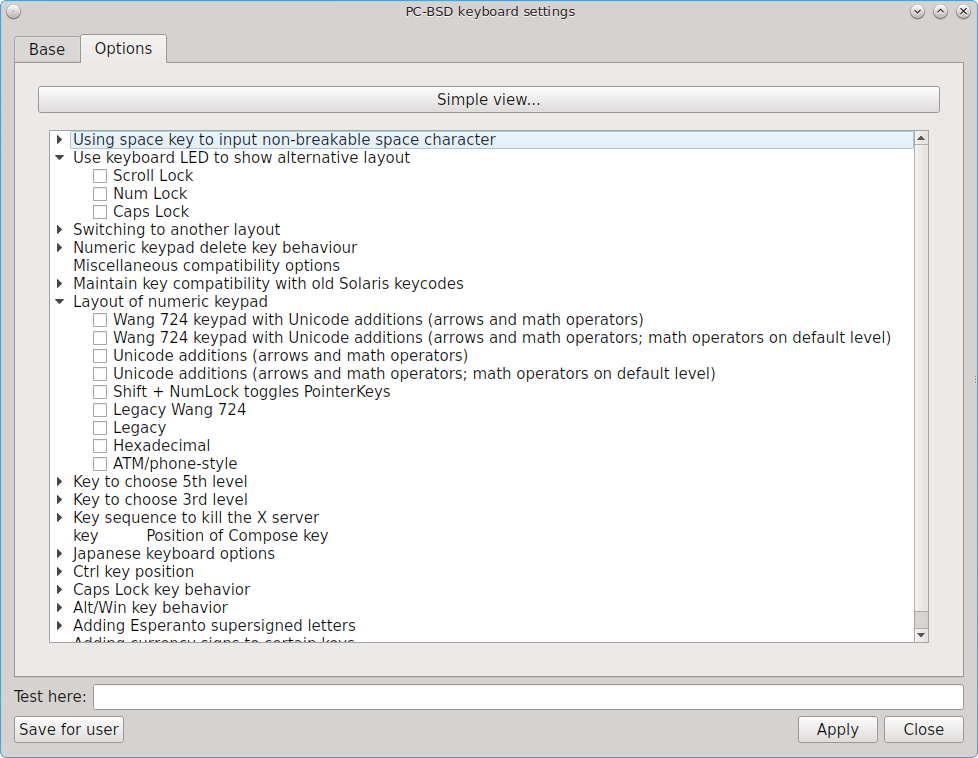
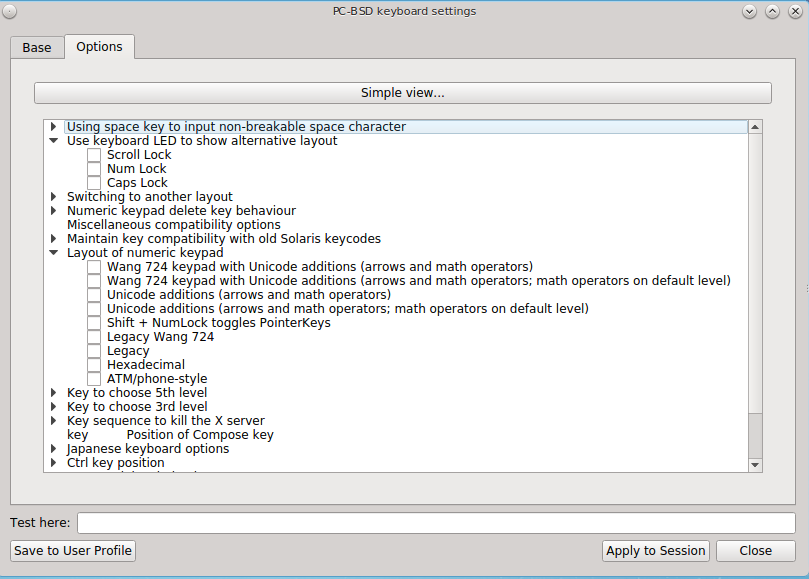
Update some screenshots.

Changed region(s): [[0.0, 0.0, 1.0, 1.0], [0.4017, 0.0, 0.5871, 0.0311], [0.0, 0.0, 0.0309, 0.0311]]

diff --git a/docs/controlpanel.rst b/docs/controlpanel.rst
@@ -619,12 +619,6 @@ shows the configuration utility with the Active Directory tab open.
 
 .. image:: images/ldap1.png
 
-.. index:: active directory
-.. _Connecting to Active Directory:
-
-Connecting to Active Directory 
--------------------------------
-
 If you need to connect to a network running Active Directory, check the box "Enable Active Directory". This will change the greyed-out status of the rest of
 the screen, allowing you to configure the following: 
 
@@ -646,14 +640,7 @@ The values that you input using this GUI are saved to :file:`/usr/local/etc/pc-a
 
 .. note:: once you enable AD, you can no longer configure auto login in :ref:`Login Manager` as users will now authenticate with the Active Directory server.
 
-.. index:: LDAP
-.. _Connecting to an OpenLDAP Server:
-
-Connecting to an OpenLDAP Server 
----------------------------------
-
 Figure 8.3b shows the configuration utility with the LDAP tab open.
-
 
 **Figure 8.3b: Managing LDAP Client Settings** 
 
@@ -722,12 +709,6 @@ option of booting into a backup boot environment. For example:
    :file:`/var/` directories remain untouched. This way, if you rollback to a previous boot environment, you will not lose data in your home directories, any
    installed applications, or downloaded src or ports. During installation, you can add additional mount points, just don't delete the default ones.
 
-.. index:: boot manager
-.. _Managing Boot Environments Using Boot Manager:
-
-Managing Boot Environments Using Boot Manager
----------------------------------------------
-
 To create and manage boot environments using a graphical interface, go to :menuselection:`Control Panel --> Boot Manager` or type
 :command:`pc-su pc-bootconfig`. You will be prompted to enter your password.
 
@@ -767,7 +748,7 @@ delete any boot environments you create manually.
 
 Whenever there are multiple boot environments, a boot menu similar to the one seen in Figure 8.4b will appear for two seconds during system boot. The menu
 contains the names of the boot environments and the date each was created. Press the :kbd:`spacebar` to pause the screen so that you can review the
-selections, use the arrow keys to highlight the boot environment you would like to boot into, and press :kbd`Enter` to continue booting into the selected boot
+selections, use the arrow keys to highlight the boot environment you would like to boot into, and press :kbd:`Enter` to continue booting into the selected boot
 environment. If you don't pause this screen, the system will automatically boot into either the last "Running" boot environment or, if you have activated
 another boot environment, the environment that was set as the "Default". 
 
@@ -920,14 +901,16 @@ The "Misc" tab is shown in Figure 8.6c.
 
 .. image:: images/login4.png
 
-By default, when a user types their password at the login prompt shown in Figure 4.8a, "*" characters are displayed as the password is typed in order to
-prevent another user from seeing the password as it is typed. When "Enable "show password" button" box is checked, and the user clicks the lock icon next to
+This screen provides the following options:
+
+**Enable "show password" button:** by default, when a user types their password at the login prompt shown in Figure 4.8a, "*" characters are displayed as the password is
+typed in order to prevent another user from seeing the password as it is typed. When the  "Enable "show password" button" box is checked, and the user clicks the lock icon next to
 the typed password in the login screen, the asterisks will change to reveal the password.
 
-By default, the list of available users is displayed in the login screen. To hide this list and force the user to input their username, uncheck the "Display
-available users" box.
+**Display available users:** by default, the list of available users is displayed in the login screen. To hide this list and force the user to input their username, uncheck
+this box. For security reasons, the Login Manager will refuse logins from the *root* and *toor* accounts.
 
-.. note:: for security reasons, the Login Manager will refuse logins from the *root* and *toor* accounts.
+**Allow Stealth Sessions:** 
 
 .. index:: configuration
 .. _Service Manager:
@@ -971,12 +954,6 @@ System Manager
 This section describes the various tasks that can be performed using the graphical System Manager utility. System Manager can be accessed from
 :menuselection:`Control Panel --> System Manager` or by typing pc-su :command:`pc-sysmanager`. You will be prompted to input your password.
 
-.. index:: system manager
-.. _General Tab:
-
-General Tab 
-------------
-
 The "General" tab, shown in Figure 8.8a, displays the following system information: 
 
 * the version numbers for the PC-BSD® base and its command-line and graphical utilities
@@ -1014,12 +991,6 @@ The "Generate" button can be used to create a report that includes the following
 When you click the "Generate" button, you will be prompted to input the name and location of the text file that will be created. Since it is a text file, you
 can view its contents in any text editor. When troubleshooting your system, this file is handy to include when you :ref:`Report a bug`.
 
-.. index:: system manager
-.. _Tasks Tab:
-
-Tasks Tab 
-----------
-
 During the installation of PC-BSD® you had an opportunity to install FreeBSD source and ports. If you did not and wish to do so after installation, use the
 "Tasks" tab of System Manager, shown in Figure 8.8b.
 
@@ -1034,12 +1005,6 @@ download is complete, a "Finished!" message will appear and you can click the "C
 
 If you click the "Fetch PC-BSD Ports Tree" button, a message will indicate that ports are being fetched and will indicate when this is complete by adding a
 "Finished!" message to the lower left corner of the message. Ports will be installed to :file:`/usr/ports/`.
-
-.. index:: system manager
-.. _Misc Tab:
-
-Misc Tab 
----------
 
 The "Misc" tab of System Manager is seen in Figure 8.8c.
 
@@ -1121,6 +1086,9 @@ account, it will be highlighted in red and the utility will prompt you to use an
 **Shell:** this drop-down menu contains the shells that are available to users when they are at a command prompt. You can either keep the default or select a
 shell which the user prefers.
 
+**UID:** by default, the user will be assigned the next available User ID (UID). If you need to force a specific UID, you can set it here. Note that you
+cannot set a UID lower than 1001 or specify a UID that is already in use by another user account.
+
 **Primary Group:** if you leave the default button of "New Group" selected, a group will be created with the same name as the user. This is usually what you
 want unless you are creating a system account and the installation instructions specify a different group name. Note that the drop-down menu for specifying a
 group name will only show existing groups, but you can quickly create a group using the "Groups" tab.
@@ -1168,12 +1136,6 @@ Disk Manager
 The PC-BSD® Disk Manager can be used to manage ZFS pools and datasets as well as the disks attached to the system. To access this utility, use
 :menuselection:`Control Panel --> Disk Manager` or type :command:`pc-su pc-zmanager` from within an xterm. You will need to input your password in order to
 access this utility.
-
-.. index:: disk manager
-.. _Managing ZFS Datasets:
-
-Managing ZFS Datasets
----------------------
 
 As seen in the example in Figure 8.10a, the utility will open in the "ZFS Filesystems" tab and will display the system's ZFS datasets, the amount of space
 available to each dataset, and the amount of space each dataset is using.
@@ -1235,12 +1197,6 @@ any options unless you are familiar with the ramifications of doing so.
   uncompressed as it is read. The algorithm determines the amount and speed of compression, where typically increased compression results in decreased speed.
   The *lz4* algorithm is recommended as it provides very good compression at near real-time speed.
 
-.. index:: disk manager
-.. _Managing the ZFS Pool:
-
-Managing the ZFS Pool
----------------------
-
 To view the status of the ZFS pools and the disk(s) in the pool, click the "ZFS Pools" tab. In the example, shown in Figure 8.10d, the ZFS pool named *tank*
 was created from one disk. The state of "Online" indicates that the pool is healthy.
 
@@ -1277,12 +1233,6 @@ If you right-click a disk entry, such as *ad0s1a* in this example, the following
 * **Attach (mirror) device:** if you wish to mirror additional disk(s), this option will open a screen which allows you to specify the disk(s) to add.
 
 * **Take offline:** if you need to replace a bad disk, select this option before physically removing the disk.
-
-.. index:: disk manager
-.. _Disk Management:
-
-Disk Management
----------------
 
 An example of the "Disks" tab is seen in Figure 8.10e.
 
@@ -1515,11 +1465,9 @@ icon in Control Panel or type :command:`pc-syskeyboard` at the command line. A s
 
 .. image:: images/keyboard1.png
 
-.. index:: keyboard
-.. _Changing the Layout:
-
-Changing the Layout
--------------------
+.. note:: any changes made using this utility can me saved as either for just this login session or permanently. To make the changes permanent, click the "Save to
+   User Profile" button once you are finished making your changes. Otherwise, click the "Apply to Session" button. If you just click the "Close" button, your changes
+   will not be saved.
 
 To add another keyboard layout, click the "+" button, which will open the screen shown in Figure 8.13b. Highlight the desired layout. This will activate the
 "Layout variant" drop-down menu where you can select to either use the "Typical" variant or a specific variant. Press "OK" to add the configured layout.
@@ -1536,12 +1484,6 @@ that this icon is greyed out when there is only one entry as at least one keyboa
 
 After creating or editing a layout, you can test it by typing some text into the "Test here" field.
 
-.. index:: keyboard
-.. _Configuring Layout Switch Keys:
-
-Configuring Layout Switch Keys
-------------------------------
-
 To configure keyboard shortcuts, click the "Options" tab. As seen in Figure 8.13c, the default view is used to set the keyboard layout switch keys.
 
 **Figure 8.13c: Configuring Layout Switch Keys**
@@ -1556,6 +1498,8 @@ categories have been expanded to show their options. To enable an option, check 
 **Figure 8.13d: Configuring Keyboard Shortcuts**
 
 .. image:: images/keyboard4.png
+
+
 
 .. index:: printing
 .. _Printing:
@@ -2229,10 +2173,10 @@ If you decide to replicate the snapshots to a backup server, keep the following 
   firewall has been configured, add rules to open this port in the firewall ruleset. FreeNAS® does not run a firewall by default.
 
 .. index:: backup
-.. _Using the Life Preserver GUI:
+.. _Scheduling a Backup:
 
-Using the Life Preserver GUI
-----------------------------
+Scheduling a Backup
+-------------------
 
 An icon to the Life Preserver utility, seen in Figure 8.18a, can be found in the system tray.
 
@@ -2258,7 +2202,7 @@ If you right-click this icon, the following options are available:
 
 * **Close Tray:** will remove the icon from the system tray. To re-add it to the tray, go to :menuselection:`Control Panel --> Life Preserver` or type
   :command:`life-preserver-tray &` at the command line. If your desktop manager does not provide a system tray, you will need to instead refer to the section
-  :ref:`Using the Command Line Version of Life Preserver`. 
+  :ref:`Using the lpreserver CLI`. 
 
 The status of this icon changes when a snapshot, scrub, or replication task is occurring. If you hover over the icon during this time, a tooltip will describe
 the current status of the running task.
@@ -2336,10 +2280,10 @@ until the replication is finished and it will not start a second replication bef
 The rest of this section demonstrates the tasks that can be performed from the Life Preserver GUI now that the pool has an initial configuration.
 
 .. index:: backup
-.. _View Menu and Configure Button:
+.. _Life Preserver Options:
 
-View Menu and Configure Button
-^^^^^^^^^^^^^^^^^^^^^^^^^^^^^^
+Life Preserver Options
+----------------------
 
 Once the schedule for *tank* has been created, the "Status" tab shown in Figure 8.21f will become active and will show the current state of the pool. The
 "View" menu lets you select "Basic" or "Advanced" view. "Advanced" view has been selected in the example shown in Figure 8.18f. 
@@ -2357,12 +2301,6 @@ If you click the "Configure" button, the screen shown in Figure 8.18g will open.
 **Figure 8.18g: Modifying the Configuration**
 
 .. image:: images/lpreserver7.png
-
-.. index:: backup
-.. _Restore Data Tab:
-
-Restore Data Tab
-^^^^^^^^^^^^^^^^
 
 The "Restore Data" tab, seen in Figure 8.18h, is used to view the contents of the local snapshots and to easily restore any file which has since been modified
 or deleted.
@@ -2382,12 +2320,6 @@ If your intent is to restore an earlier version of a file or a file that has bee
 the "Restore" button. A copy of that file as it appeared at that point in time will be created in the same directory, with :file:`-reversion#` added to the
 filename. This way, any current version or restored version of the file will never be overwritten.
 
-.. index:: backup
-.. Life Preserver File Menu:
-
-Life Preserver File Menu
-^^^^^^^^^^^^^^^^^^^^^^^^
-
 The "File" menu contains the following options: 
 
 * **Manage Pool:** this will be greyed out if you have already configured your ZFS pool. If you have a second ZFS pool, you can select this option in order to
@@ -2402,13 +2334,7 @@ The "File" menu contains the following options:
 
 * **Close Window:** closes the Life Preserver window. However, Life Preserver will continue to reside in the system tray.
 
-.. index:: backup
-.. _Classic Backups Tab:
-
-Classic Backups Menu
-^^^^^^^^^^^^^^^^^^^^
-
-This menu can be used to create an as-needed tarball of the user's home directory. This can be handy if you would like to make a backup of just your home
+The "Classic Backups" menu can be used to create an as-needed tarball of the user's home directory. This can be handy if you would like to make a backup of just your home
 directory in order to restore it in another directory or on another system.
 
 To make a tar backup, click :menuselection:`Classic Backups --> Compress Home Dir` and select the name of the user. This will open the screen shown in Figure
@@ -2427,15 +2353,9 @@ Press "Start" to start the backup. A progress bar will indicate the status and s
 exit this screen.
 
 **Be sure this is what you want to do before using this option, as it will overwrite the current contents of the user's home directory.** If your goal is to
-restore files without destroying the current versions, use the :ref:`Restore Data Tab` instead.
+restore files without destroying the current versions, use the "Restore Data" tab instead.
 
-.. index:: backup
-.. _Snapshots Menu:
-
-Snapshots Menu
-^^^^^^^^^^^^^^
-
-The snapshots tab allows you to create or delete snapshots outside of the configured snapshot creation and pruning schedules. This tab contains these options: 
+The "Snapshots" tab allows you to create or delete snapshots outside of the configured snapshot creation and pruning schedules. This tab contains these options: 
 
 * **New Snapshot:** click this button to create a snapshot now, instead of waiting for the schedule. For example, you can create a snapshot before making
   changes to a file, so that you can preserve a copy of the previous version of the file. Or, you can create a snapshot as you make modifications to the
@@ -2448,13 +2368,7 @@ The snapshots tab allows you to create or delete snapshots outside of the config
 
 * **Start Replication:** if you have configured a remote server, this option will start a replication now, rather than waiting for the scheduled time.
 
-.. index:: backup
-.. _Disks Menu:
-
-Disks Menu
-^^^^^^^^^^
-
-This tab provides the same functionality of :ref:`Mirroring the System to a Local Disk`, but from the GUI rather than the command line. You should read that
+The "Disks" tab provides the same functionality of :ref:`Mirroring the System to a Local Disk`, but from the GUI rather than the command line. You should read that
 section before attempting to use any of the disk options in this menu. It also lets you start and stop a ZFS scrub.
 
 The options available in this menu are: 
@@ -2477,10 +2391,10 @@ The options available in this menu are:
   the scrub when the system is not in use, such as before going to bed. Depending upon the size of the pool, the scrub may take some time.
 
 .. index:: backup
-.. _Using the Command Line Version of Life Preserver:
+.. _Using the lpreserver CLI:
 
-Using the Command Line Version of Life Preserver
-------------------------------------------------
+Using the lpreserver CLI
+------------------------
 
 The :command:`lpreserver` command line utility can be used to manage snapshots and replication from the command line of a PC-BSD® or TrueOS® system. This
 command needs to be run as the superuser. To display its usage, type the command without any arguments::

diff --git a/docs/introduction.rst b/docs/introduction.rst
@@ -184,9 +184,13 @@ The following features or enhancements were introduced for PC-BSD® 10.1.2:
 
 * The options in the :ref:`Advanced Mode` screen of the installer have been streamlined.
 
-* The ability to create a PersonaCrypt user has been added to the :ref:`Create a User Screen`.
+* The ability to create a PersonaCrypt user and to specify a UID has been added to the :ref:`Create a User Screen`.
 
 * The new AppCafe®, formerly called AppCafe® Remote, has replaced the old version of AppCafe®.
+
+* The "Allow Stealth Sessions" checkbox has been added to :menuselection:`Control Panel --> Login Manager --> Misc`.
+
+* The "UID" selection field has been added to :menuselection:`Control Panel --> User Manager --> Add User`.
 
 * IPFW is now the default firewall. :ref:`Firewall Manager` has been redesigned to use IPFW and its UI has been simplified to make it easier to use.
 
